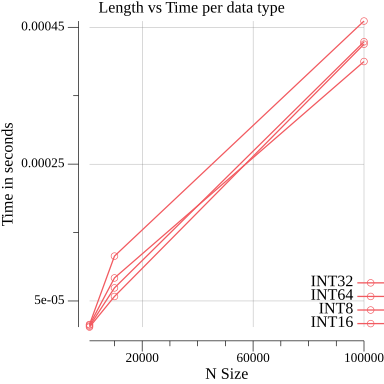
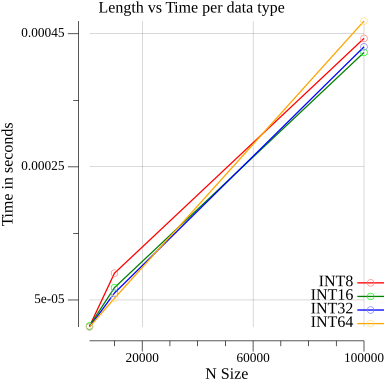
Code now generate also plots for neg positive percentage

diff --git a/Algorithmics/hw1/core/plots.go b/Algorithmics/hw1/core/plots.go
@@ -2,12 +2,57 @@ package core
 
 import (
 	"fmt"
+	"image/color"
 	"strings"
 
 	"gonum.org/v1/plot"
 	"gonum.org/v1/plot/plotter"
-	"gonum.org/v1/plot/plotutil"
 	"gonum.org/v1/plot/vg"
+)
+
+var (
+	colors map[int][]color.RGBA = map[int][]color.RGBA{
+		0: {
+			color.RGBA{R: 255, G: 0, B: 0, A: 255},
+			color.RGBA{R: 255, G: 128, B: 128, A: 255},
+		},
+		1: {
+			color.RGBA{R: 0, G: 128, B: 0, A: 255},
+			color.RGBA{R: 0, G: 255, B: 0, A: 255},
+		},
+		2: {
+			color.RGBA{R: 0, G: 0, B: 255, A: 255},
+			color.RGBA{R: 128, G: 128, B: 255, A: 255},
+		},
+		3: {
+			color.RGBA{R: 255, G: 165, B: 0, A: 255},
+			color.RGBA{R: 255, G: 223, B: 128, A: 255},
+		},
+		4: {
+			color.RGBA{R: 128, G: 0, B: 128, A: 255},
+			color.RGBA{R: 192, G: 128, B: 192, A: 255},
+		},
+		5: {
+			color.RGBA{R: 0, G: 255, B: 255, A: 255},
+			color.RGBA{R: 128, G: 255, B: 255, A: 255},
+		},
+		6: {
+			color.RGBA{R: 255, G: 255, B: 0, A: 255},
+			color.RGBA{R: 255, G: 255, B: 128, A: 255},
+		},
+		7: {
+			color.RGBA{R: 165, G: 42, B: 42, A: 255},
+			color.RGBA{R: 210, G: 105, B: 105, A: 255},
+		},
+		8: {
+			color.RGBA{R: 75, G: 0, B: 130, A: 255},
+			color.RGBA{R: 138, G: 43, B: 226, A: 255},
+		},
+		9: {
+			color.RGBA{R: 0, G: 0, B: 0, A: 255},
+			color.RGBA{R: 128, G: 128, B: 128, A: 255},
+		},
+	}
 )
 
 func GenerateLinePlot(title string, xLabel string, yLabel string, points map[string]plotter.XYs) {
@@ -18,12 +63,80 @@ func GenerateLinePlot(title string, xLabel string, yLabel string, points map[str
 
 	p.Add(plotter.NewGrid())
 
+	index := 0
 	for label, dataPoints := range points {
-		// l, err := plotter.NewLine(dataPoints)
-		if err := plotutil.AddLinePoints(p, label, dataPoints); err != nil {
+		if index == len(colors) {
+			index = 0
+		}
+		lpLine, lpPoints, err := plotter.NewLinePoints(dataPoints)
+		if err != nil {
 			panic(err.Error())
 		}
+		lpLine.Color = colors[index][0]
+		lpPoints.Color = colors[index][1]
+
+		p.Add(lpLine, lpPoints)
+		p.Legend.Add(label, lpLine, lpPoints)
+
+		index++
+
 	}
+	p.X.AutoRescale = true
+
+	if err := p.Save(4*vg.Inch, 4*vg.Inch, fmt.Sprintf("%s.png", strings.ReplaceAll(title, " ", "_"))); err != nil {
+		panic(err)
+	}
+
+}
+
+type BarsData struct {
+	Name   string
+	Groups []BarsGroup
+}
+
+type BarsGroup struct {
+	Name  string
+	Value float64
+}
+
+//
+// There should be one item on dimensionNames per array added to dimensions
+//
+//
+//
+
+func GenerateBarPlot(title string, yLabel string, xNames []string, dimensionNames []string, dimensions ...[]float64) {
+	p := plot.New()
+	p.Title.Text = title
+	p.Y.Label.Text = yLabel
+
+	index := 0
+	for i, dimension := range dimensions {
+		group := make(plotter.Values, len(dimension))
+
+		for i, val := range dimension {
+			group[i] = val
+		}
+
+		if index == len(colors) {
+			index = 0
+		}
+		w := vg.Points(20)
+		bars, err := plotter.NewBarChart(group, w)
+		bars.LineStyle.Width = vg.Length(0)
+		bars.Color = colors[index][0]
+		if err != nil {
+			panic(err)
+		}
+		if i%2 == 0 {
+			bars.Offset = -w
+		}
+		p.Add(bars)
+		p.Legend.Add(dimensionNames[i], bars)
+		index++
+	}
+	p.NominalX(xNames...)
+	p.Legend.Top = true
 
 	if err := p.Save(4*vg.Inch, 4*vg.Inch, fmt.Sprintf("%s.png", strings.ReplaceAll(title, " ", "_"))); err != nil {
 		panic(err)

diff --git a/Algorithmics/hw1/main.go b/Algorithmics/hw1/main.go
@@ -37,8 +37,10 @@ var (
 		// int64(math.Pow10(6)),
 		// int64(math.Pow10(7)),
 		// int64(math.Pow10(8)),
+
+		// Well this one at lest finalized
 		// int64(math.Pow10(9)),
-		// int64(math.Pow10(10)),
+		// int64(math.Pow10(10)), // This one is on my cp limits
 		// int64(math.Pow10(11)),
 		// int64(math.Pow10(12)),
 	}
@@ -65,6 +67,32 @@ func main() {
 	}
 
 	generatePlots(results)
+	generateNegativePositivePlots(results)
+}
+
+func generateNegativePositivePlots(results map[int64]map[DataType]*RandSResult) {
+	for i, testCases := range results {
+		var (
+			name           string   = fmt.Sprintf("Negative and positives distribution for N=%d", i)
+			xNames         []string = make([]string, 0, len(testCases))
+			yLabel         string   = "Percentage"
+			dimensionNames []string = []string{
+				"Negative",
+				"Positive",
+			}
+			negativeDimension []float64 = make([]float64, 0, len(testCases))
+			positiveDimension []float64 = make([]float64, 0, len(testCases))
+		)
+
+		for ii, theCase := range testCases {
+			xNames = append(xNames, string(ii))
+			negativeDimension = append(negativeDimension, theCase.Summary.NegativePercentage)
+			positiveDimension = append(positiveDimension, theCase.Summary.PositivesPercentage)
+
+		}
+		fmt.Println("Printing: ", i)
+		core.GenerateBarPlot(name, yLabel, xNames, dimensionNames, negativeDimension, positiveDimension)
+	}
 }
 
 func generatePlots(results map[int64]map[DataType]*RandSResult) {
@@ -83,9 +111,7 @@ func generatePlots(results map[int64]map[DataType]*RandSResult) {
 		}
 		index++
 	}
-
 	core.GenerateLinePlot("Length vs Time per data type", "N Size", "Time in seconds", toPlot)
-
 }
 
 func runRand(n int64) map[DataType]*RandSResult {
